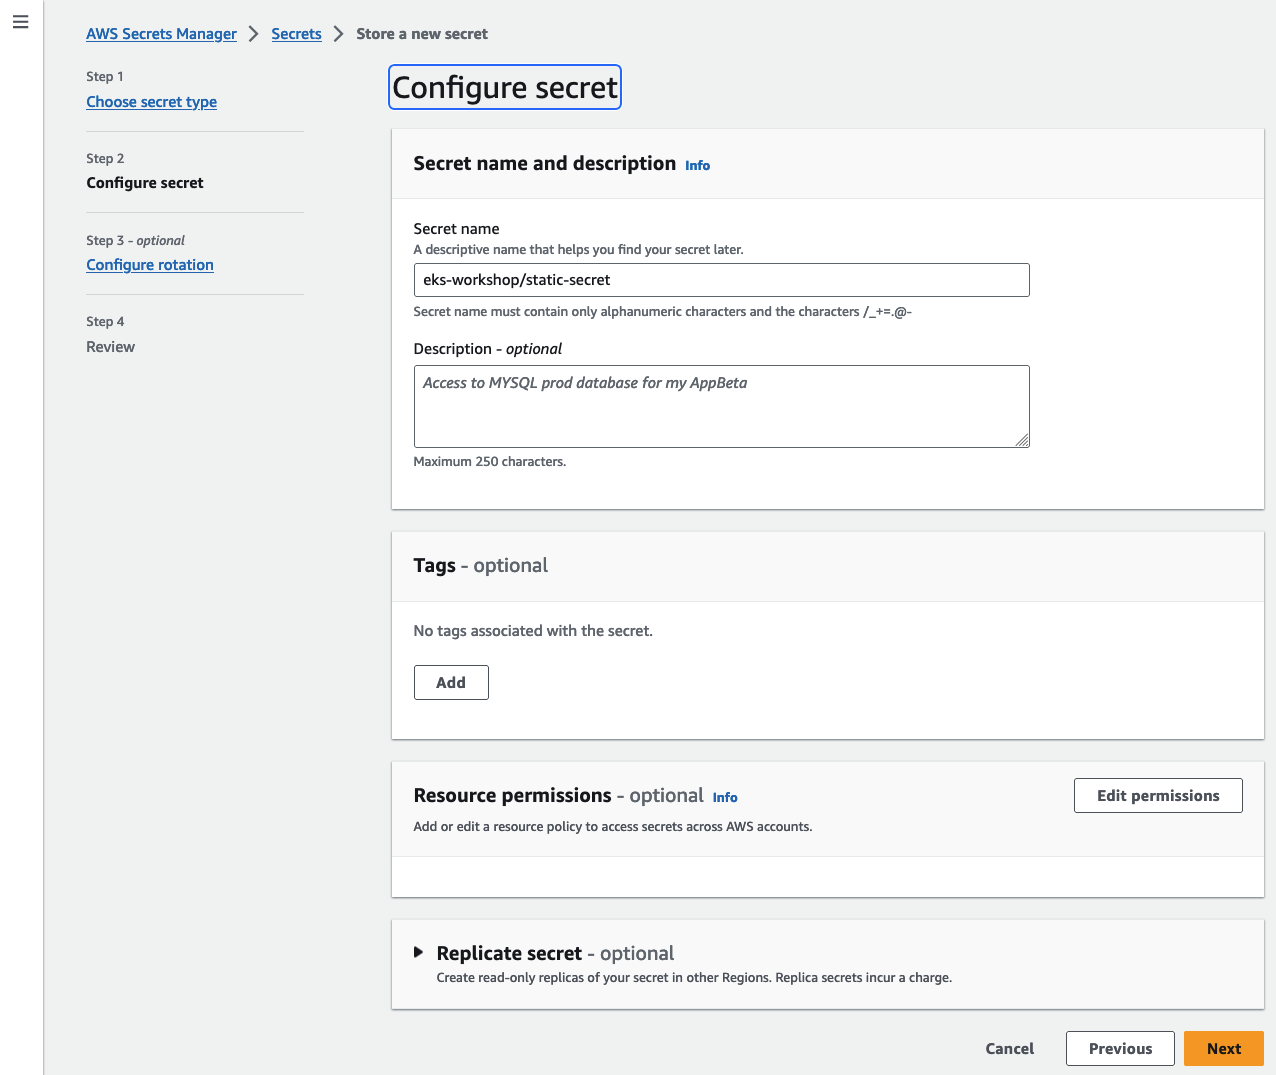
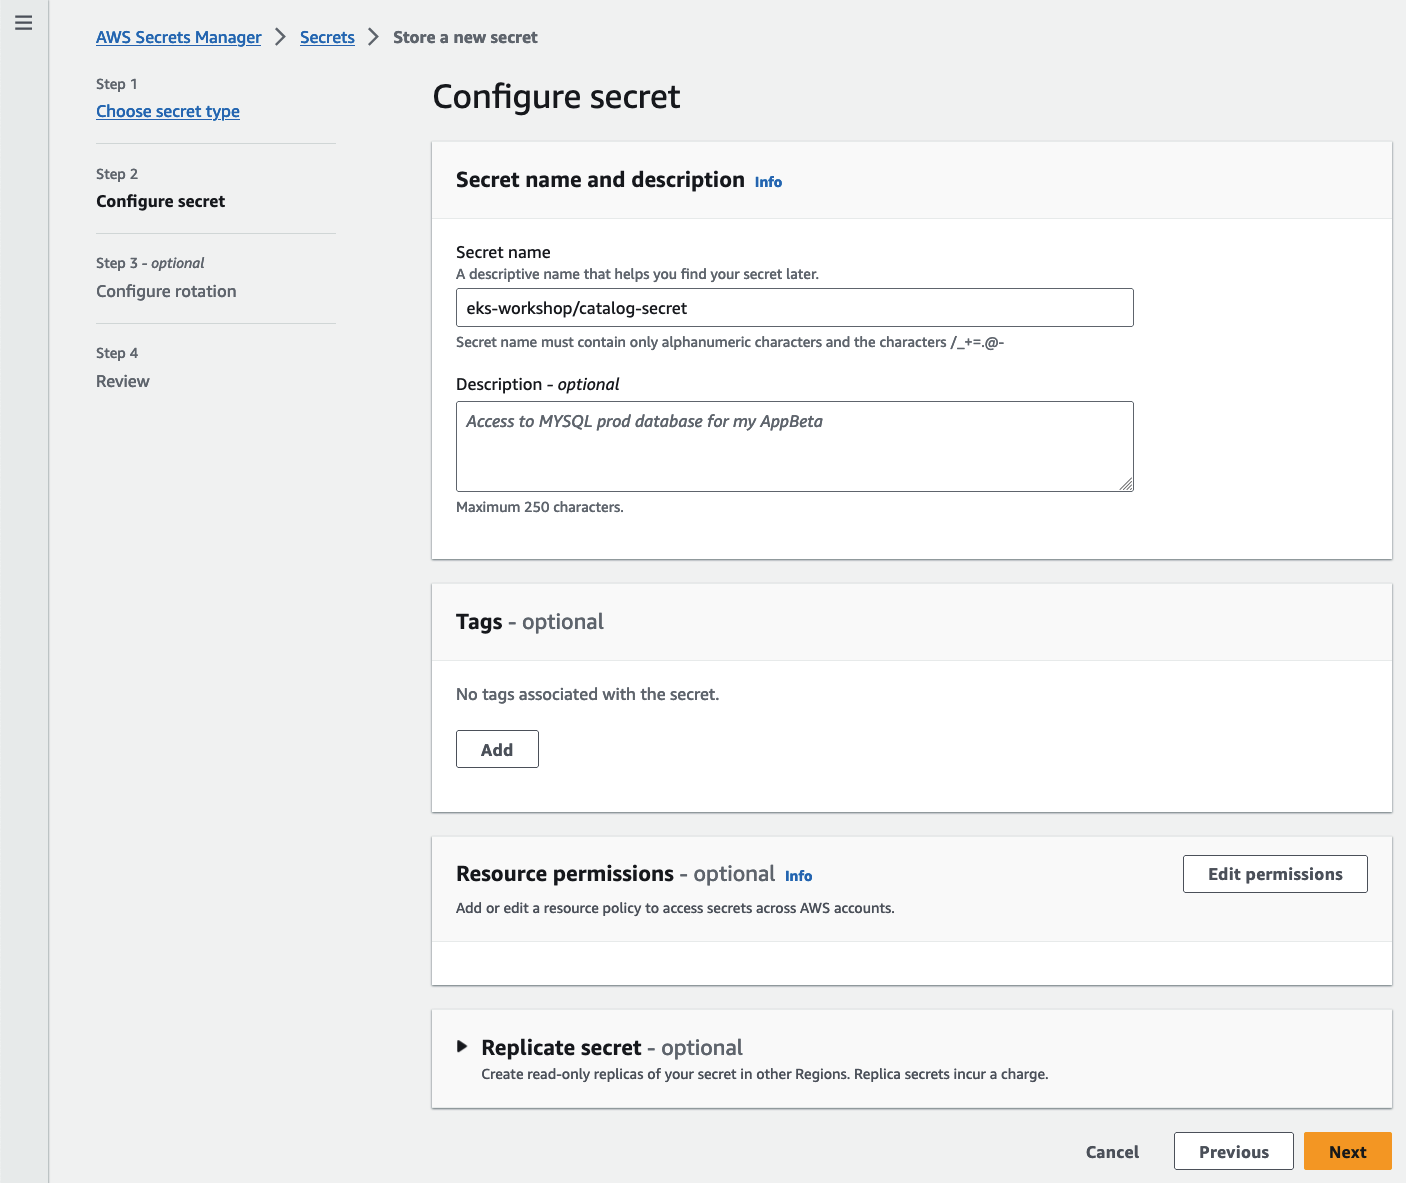
Running tests v1

diff --git a/website/docs/security/secrets-management/secrets-manager/validate-cluster-resources.md b/website/docs/security/secrets-management/secrets-manager/validate-cluster-resources.md
@@ -53,24 +53,9 @@ $ kubectl -n catalog get deployment catalog -o yaml | yq '.spec.template.spec.co
     secretKeyRef:
       key: password
       name: catalog-db
-- name: DB_NAME
-  valueFrom:
-    configMapKeyRef:
-      key: name
-      name: catalog
-- name: DB_READ_ENDPOINT
-  valueFrom:
-    secretKeyRef:
-      key: endpoint
-      name: catalog-db
-- name: DB_ENDPOINT
-  valueFrom:
-    secretKeyRef:
-      key: endpoint
-      name: catalog-db
 ```
 
-Upon exploring the `catalog-db` Secret we can see that it is only encoded with base64 which can be easily decoded as follows hence making it difficult for the secrets manifests to be part of the GitOps workflow.
+Upon exploring the `catalog-db` Secret we can see that it is only encoded with *base64* which can be easily decoded as follows hence making it difficult for the secrets manifests to be part of the GitOps workflow.
 
 ```file
 manifests/base-application/catalog/secrets.yaml
@@ -83,7 +68,7 @@ $ kubectl -n catalog get secrets catalog-db --template {{.data.password}} | base
 default_password% 
 ```
 
-You should also see that we already have created a *SecretProviderClass*, which is a namespaced custom resource that's used provide driver configurations and specific parameters to access your secrets stored in AWS Secrets Manger via CSI driver.
+You should also see that we already have created a SecretProviderClass, which is a namespaced custom resource that's used provide driver configurations and specific parameters to access your secrets stored in AWS Secrets Manger via CSI driver.
 
 ```bash
 $ kubectl -n catalog get secretproviderclass -o yaml
@@ -94,9 +79,14 @@ metadata:
   name: catalog-spc
   namespace: catalog
 spec:
-  provider: aws
   parameters:
     objects: |
-        - objectName: "catalog-secret"
-          objectType: "secretsmanager"
+      - objectName: "eks-workshop/catalog-secret"
+        objectType: "secretsmanager"
+        jmesPath:
+          - path: username
+            objectAlias: username
+          - path: password
+            objectAlias: password
+  provider: aws
 ```

diff --git a/website/docs/security/secrets-management/secrets-manager/mounting-secrets.md b/website/docs/security/secrets-management/secrets-manager/mounting-secrets.md
@@ -1,0 +1,6 @@
+---
+title: "Mounting AWS Secrets Manager secret on Kubernetes Pod"
+sidebar_position: 63
+---
+
+As seen in earlier steps, we have a `Deployment` in the **Catalog** `Namespace` with some credentials declared as environment variables, using values stored in a `Secret` in the same `Namespace`. We could also check that this is not the best approach to store sensitive information, since the secret values are just encoded using *base64*, and can be easily decoded in the command line. We will then modify the **catalog-db** `Deployment` to use the secret stored in AWS Secrets Manager, as the source for the sensitive credentials information.
